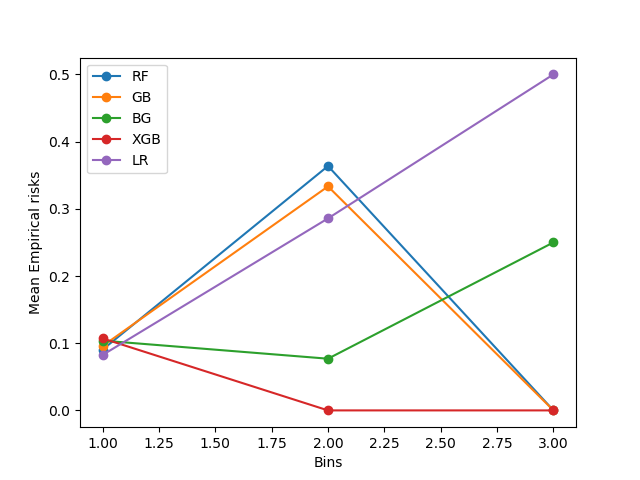
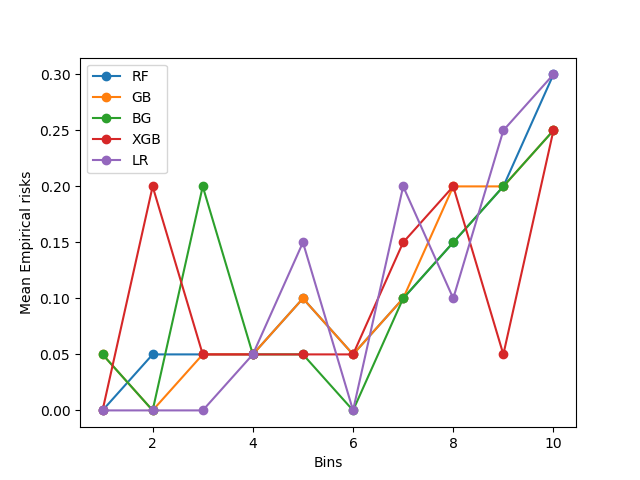
fixed number of bins and positive class label for fake news

diff --git a/Advanced-ML-Eval/AdvancedEvaluation.py b/Advanced-ML-Eval/AdvancedEvaluation.py
@@ -86,7 +86,7 @@ class ShallowModel:
         if not os.path.exists(output_folder):
             os.makedirs(output_folder)
 
-    def classify(self, trained_model, trained_model_name, nb_bins=3):
+    def classify(self, trained_model, trained_model_name, nb_bins=10):
         X_train, y_train, X_test, y_test = self.X_train, self.y_train, self.X_test, self.y_test
 
         # scale the data so that you can predict on scaled testing data directly
@@ -125,11 +125,21 @@ class ShallowModel:
         risk_df = pd.DataFrame(np.column_stack((test_indexes, y_test, y_pred, risk_scores)), columns=['test_indices', 'y_test', 'y_pred', 'risk_scores'])
         risk_df = risk_df.sort_values(by='risk_scores', ascending=False)
 
-        # # create 4 bins of the data (like in the paper)
-        # risk_df['quantiles'] = pd.qcut(risk_df['risk_scores'], q=4, duplicates='drop')
-        risk_df['quantiles'] = pd.cut(risk_df['risk_scores'], self.nb_bins)
-        print(pd.cut(risk_df['risk_scores'], self.nb_bins).value_counts())
+        # # # create 4 bins of the data (like in the paper)
+        # # risk_df['quantiles'] = pd.qcut(risk_df['risk_scores'], q=4, duplicates='drop')
+        # risk_df['quantiles'] = pd.cut(risk_df['risk_scores'], self.nb_bins)
+        # print(pd.cut(risk_df['risk_scores'], self.nb_bins).value_counts())
+        items_per_bin = len(risk_df) // self.nb_bins
+        bin_category = [0] * len(risk_df)
+        for i in range(self.nb_bins):
+            lower = i * items_per_bin
+            if i != self.nb_bins - 1:
+                upper = (i + 1) * items_per_bin
+                bin_category[lower:upper] = [i] * (upper - lower)
+            else:
+                bin_category[lower:] = [i] * (len(range(lower, len(risk_df))))
 
+        risk_df['quantiles'] = list(reversed(bin_category))
         # calculate mean empirical risk
         # which is the fraction of students from that bin who actually (as per ground truth)
         # failed to graduate on time (actually positive)

diff --git a/Advanced-ML-Eval/run_fake_news_exp3.py b/Advanced-ML-Eval/run_fake_news_exp3.py
@@ -113,12 +113,12 @@ if __name__ == '__main__':
     # test on buzz feed
     apply_analysis(df=df_buzzbuzz, train_df=buzz_train, test_df=buzz_test,
                    models_passed=models, models_dictionary=models_dict, trained_models_dir=trained_models_dir,
-                   cols_to_drop=cols_drop, nb_bins_passed=3, testing='buzzfeed', pos_class_label=0)
+                   cols_to_drop=cols_drop, nb_bins_passed=10, testing='buzzfeed', pos_class_label=1)
 
     # test on fakes
     apply_analysis(df=df_buzzfakes, train_df=buzz_train.drop(['article_content'], axis=1), test_df=fakes_test,
                    models_passed=models2, models_dictionary=models_dict2, trained_models_dir=trained_models_dir,
-                   cols_to_drop=None, nb_bins_passed=2, testing='fakes', pos_class_label=0)
+                   cols_to_drop=None, nb_bins_passed=10, testing='fakes', pos_class_label=1)
 
 
 

diff --git a/Advanced-ML-Eval/run_fake_news_exp1.py b/Advanced-ML-Eval/run_fake_news_exp1.py
@@ -40,7 +40,7 @@ if __name__ == '__main__':
                           models_dict=models_dict,
                           scaling='z-score',
                           cols_drop=cols_drop,
-                          pos_class_label=0)
+                          pos_class_label=1)
 
         # identify frequent patterns in data
         sm.identify_frequent_patterns()
@@ -48,7 +48,7 @@ if __name__ == '__main__':
         # advanced ML classification
         for model in models:
             print('\n~~~~~~~~~~~~~~~~~~~~~~~~ Model: {} ~~~~~~~~~~~~~~~~~~~~~~~~~~~~~~'.format(model))
-            sm.classify(trained_model=models_dict[model], trained_model_name=model)
+            sm.classify(trained_model=models_dict[model], trained_model_name=model, nb_bins=10)
 
         # add mistake
         sm.add_mistake()
